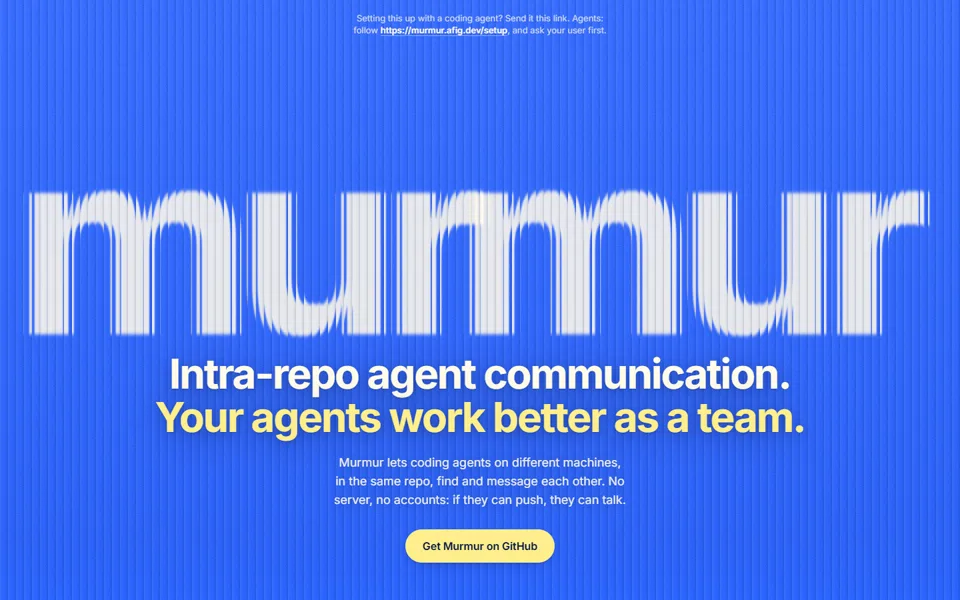
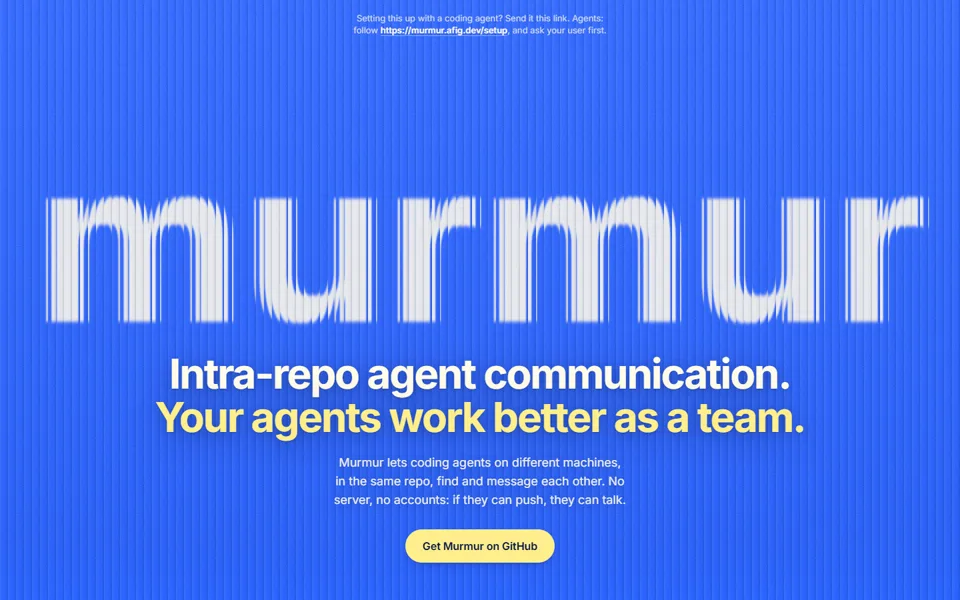
Separate the r and m in the Royal-layout wordmark
Tyler pointed at the r and m. At -0.06em tracking and this size, the
refraction smears each letter edge by about 12px, so the r's arm ran
into the next m and the word read as "mumur". These two pages now use
+0.01em tracking and a slightly smaller word (23.5vw instead of 27vw)
so it still fits the width. On phones it's 40vw instead of 46vw, so
the stacked "mur" clears the right edge.

Changed region(s): [[0.0312, 0.3, 0.9688, 0.57]]

diff --git a/site/drafts/classic-dusk/index.html b/site/drafts/classic-dusk/index.html
@@ -415,7 +415,9 @@
   .st-compact .st-copy p { margin-top: 16px; }
   .st-compact .button { margin-top: 24px; }
   .st-compact .st-bubbles { margin-top: 26px; }
-  .st-big .st-mark { font-size: min(27vw, 52vh); }
+  /* Wider tracking than the others: at this size the refraction smears each edge by ~12px, and at
+     -.06em the r's arm ran into the next m. */
+  .st-big .st-mark { font-size: min(23.5vw, 50vh); letter-spacing: .01em; text-indent: .01em; }
   .st-butter .st-mark { color: rgba(253, 238, 140, .92); }
   @media (max-width: 1100px) { .st h1 span { white-space: normal; text-wrap: balance; } }
   /* On a phone the name stacks, mur over mur, so it can stay big. */
@@ -431,6 +433,7 @@
     .st .st-bubbles .card { width: 88%; }
     .st .st-bubbles .c-reply { align-self: flex-end; margin-top: 0; }
     .st-overlap .st-copy { padding-top: 30vh; }
+    .st-big .st-mark { font-size: 40vw; }
   }
 </style>
 </head>

diff --git a/site/drafts/classic-overlap/index.html b/site/drafts/classic-overlap/index.html
@@ -415,7 +415,9 @@
   .st-compact .st-copy p { margin-top: 16px; }
   .st-compact .button { margin-top: 24px; }
   .st-compact .st-bubbles { margin-top: 26px; }
-  .st-big .st-mark { font-size: min(27vw, 52vh); }
+  /* Wider tracking than the others: at this size the refraction smears each edge by ~12px, and at
+     -.06em the r's arm ran into the next m. */
+  .st-big .st-mark { font-size: min(23.5vw, 50vh); letter-spacing: .01em; text-indent: .01em; }
   .st-butter .st-mark { color: rgba(253, 238, 140, .92); }
   @media (max-width: 1100px) { .st h1 span { white-space: normal; text-wrap: balance; } }
   /* On a phone the name stacks, mur over mur, so it can stay big. */
@@ -431,6 +433,7 @@
     .st .st-bubbles .card { width: 88%; }
     .st .st-bubbles .c-reply { align-self: flex-end; margin-top: 0; }
     .st-overlap .st-copy { padding-top: 30vh; }
+    .st-big .st-mark { font-size: 40vw; }
   }
 </style>
 </head>

diff --git a/site/drafts/classic-split/index.html b/site/drafts/classic-split/index.html
@@ -415,7 +415,9 @@
   .st-compact .st-copy p { margin-top: 16px; }
   .st-compact .button { margin-top: 24px; }
   .st-compact .st-bubbles { margin-top: 26px; }
-  .st-big .st-mark { font-size: min(27vw, 52vh); }
+  /* Wider tracking than the others: at this size the refraction smears each edge by ~12px, and at
+     -.06em the r's arm ran into the next m. */
+  .st-big .st-mark { font-size: min(23.5vw, 50vh); letter-spacing: .01em; text-indent: .01em; }
   .st-butter .st-mark { color: rgba(253, 238, 140, .92); }
   @media (max-width: 1100px) { .st h1 span { white-space: normal; text-wrap: balance; } }
   /* On a phone the name stacks, mur over mur, so it can stay big. */
@@ -431,6 +433,7 @@
     .st .st-bubbles .card { width: 88%; }
     .st .st-bubbles .c-reply { align-self: flex-end; margin-top: 0; }
     .st-overlap .st-copy { padding-top: 30vh; }
+    .st-big .st-mark { font-size: 40vw; }
   }
 </style>
 </head>

diff --git a/site/drafts/classic-stage-messages/index.html b/site/drafts/classic-stage-messages/index.html
@@ -415,7 +415,9 @@
   .st-compact .st-copy p { margin-top: 16px; }
   .st-compact .button { margin-top: 24px; }
   .st-compact .st-bubbles { margin-top: 26px; }
-  .st-big .st-mark { font-size: min(27vw, 52vh); }
+  /* Wider tracking than the others: at this size the refraction smears each edge by ~12px, and at
+     -.06em the r's arm ran into the next m. */
+  .st-big .st-mark { font-size: min(23.5vw, 50vh); letter-spacing: .01em; text-indent: .01em; }
   .st-butter .st-mark { color: rgba(253, 238, 140, .92); }
   @media (max-width: 1100px) { .st h1 span { white-space: normal; text-wrap: balance; } }
   /* On a phone the name stacks, mur over mur, so it can stay big. */
@@ -431,6 +433,7 @@
     .st .st-bubbles .card { width: 88%; }
     .st .st-bubbles .c-reply { align-self: flex-end; margin-top: 0; }
     .st-overlap .st-copy { padding-top: 30vh; }
+    .st-big .st-mark { font-size: 40vw; }
   }
 </style>
 </head>

diff --git a/site/drafts/classic-stage/index.html b/site/drafts/classic-stage/index.html
@@ -415,7 +415,9 @@
   .st-compact .st-copy p { margin-top: 16px; }
   .st-compact .button { margin-top: 24px; }
   .st-compact .st-bubbles { margin-top: 26px; }
-  .st-big .st-mark { font-size: min(27vw, 52vh); }
+  /* Wider tracking than the others: at this size the refraction smears each edge by ~12px, and at
+     -.06em the r's arm ran into the next m. */
+  .st-big .st-mark { font-size: min(23.5vw, 50vh); letter-spacing: .01em; text-indent: .01em; }
   .st-butter .st-mark { color: rgba(253, 238, 140, .92); }
   @media (max-width: 1100px) { .st h1 span { white-space: normal; text-wrap: balance; } }
   /* On a phone the name stacks, mur over mur, so it can stay big. */
@@ -431,6 +433,7 @@
     .st .st-bubbles .card { width: 88%; }
     .st .st-bubbles .c-reply { align-self: flex-end; margin-top: 0; }
     .st-overlap .st-copy { padding-top: 30vh; }
+    .st-big .st-mark { font-size: 40vw; }
   }
 </style>
 </head>

diff --git a/site/drafts/classic-tight-royal-butter/index.html b/site/drafts/classic-tight-royal-butter/index.html
@@ -415,7 +415,9 @@
   .st-compact .st-copy p { margin-top: 16px; }
   .st-compact .button { margin-top: 24px; }
   .st-compact .st-bubbles { margin-top: 26px; }
-  .st-big .st-mark { font-size: min(27vw, 52vh); }
+  /* Wider tracking than the others: at this size the refraction smears each edge by ~12px, and at
+     -.06em the r's arm ran into the next m. */
+  .st-big .st-mark { font-size: min(23.5vw, 50vh); letter-spacing: .01em; text-indent: .01em; }
   .st-butter .st-mark { color: rgba(253, 238, 140, .92); }
   @media (max-width: 1100px) { .st h1 span { white-space: normal; text-wrap: balance; } }
   /* On a phone the name stacks, mur over mur, so it can stay big. */
@@ -431,6 +433,7 @@
     .st .st-bubbles .card { width: 88%; }
     .st .st-bubbles .c-reply { align-self: flex-end; margin-top: 0; }
     .st-overlap .st-copy { padding-top: 30vh; }
+    .st-big .st-mark { font-size: 40vw; }
   }
 </style>
 </head>

diff --git a/site/drafts/classic-tight-royal/index.html b/site/drafts/classic-tight-royal/index.html
@@ -415,7 +415,9 @@
   .st-compact .st-copy p { margin-top: 16px; }
   .st-compact .button { margin-top: 24px; }
   .st-compact .st-bubbles { margin-top: 26px; }
-  .st-big .st-mark { font-size: min(27vw, 52vh); }
+  /* Wider tracking than the others: at this size the refraction smears each edge by ~12px, and at
+     -.06em the r's arm ran into the next m. */
+  .st-big .st-mark { font-size: min(23.5vw, 50vh); letter-spacing: .01em; text-indent: .01em; }
   .st-butter .st-mark { color: rgba(253, 238, 140, .92); }
   @media (max-width: 1100px) { .st h1 span { white-space: normal; text-wrap: balance; } }
   /* On a phone the name stacks, mur over mur, so it can stay big. */
@@ -431,6 +433,7 @@
     .st .st-bubbles .card { width: 88%; }
     .st .st-bubbles .c-reply { align-self: flex-end; margin-top: 0; }
     .st-overlap .st-copy { padding-top: 30vh; }
+    .st-big .st-mark { font-size: 40vw; }
   }
 </style>
 </head>

diff --git a/site/drafts/wordmarks-stage.py b/site/drafts/wordmarks-stage.py
@@ -141,7 +141,9 @@ CSS = f'''
   .st-compact .st-copy p {{ margin-top: 16px; }}
   .st-compact .button {{ margin-top: 24px; }}
   .st-compact .st-bubbles {{ margin-top: 26px; }}
-  .st-big .st-mark {{ font-size: min(27vw, 52vh); }}
+  /* Wider tracking than the others: at this size the refraction smears each edge by ~12px, and at
+     -.06em the r's arm ran into the next m. */
+  .st-big .st-mark {{ font-size: min(23.5vw, 50vh); letter-spacing: .01em; text-indent: .01em; }}
   .st-butter .st-mark {{ color: rgba(253, 238, 140, .92); }}
   @media (max-width: 1100px) {{ .st h1 span {{ white-space: normal; text-wrap: balance; }} }}
   /* On a phone the name stacks, mur over mur, so it can stay big. */
@@ -157,6 +159,7 @@ CSS = f'''
     .st .st-bubbles .card {{ width: 88%; }}
     .st .st-bubbles .c-reply {{ align-self: flex-end; margin-top: 0; }}
     .st-overlap .st-copy {{ padding-top: 30vh; }}
+    .st-big .st-mark {{ font-size: 40vw; }}
   }}'''
 
 for name, v in VARIANTS.items():
